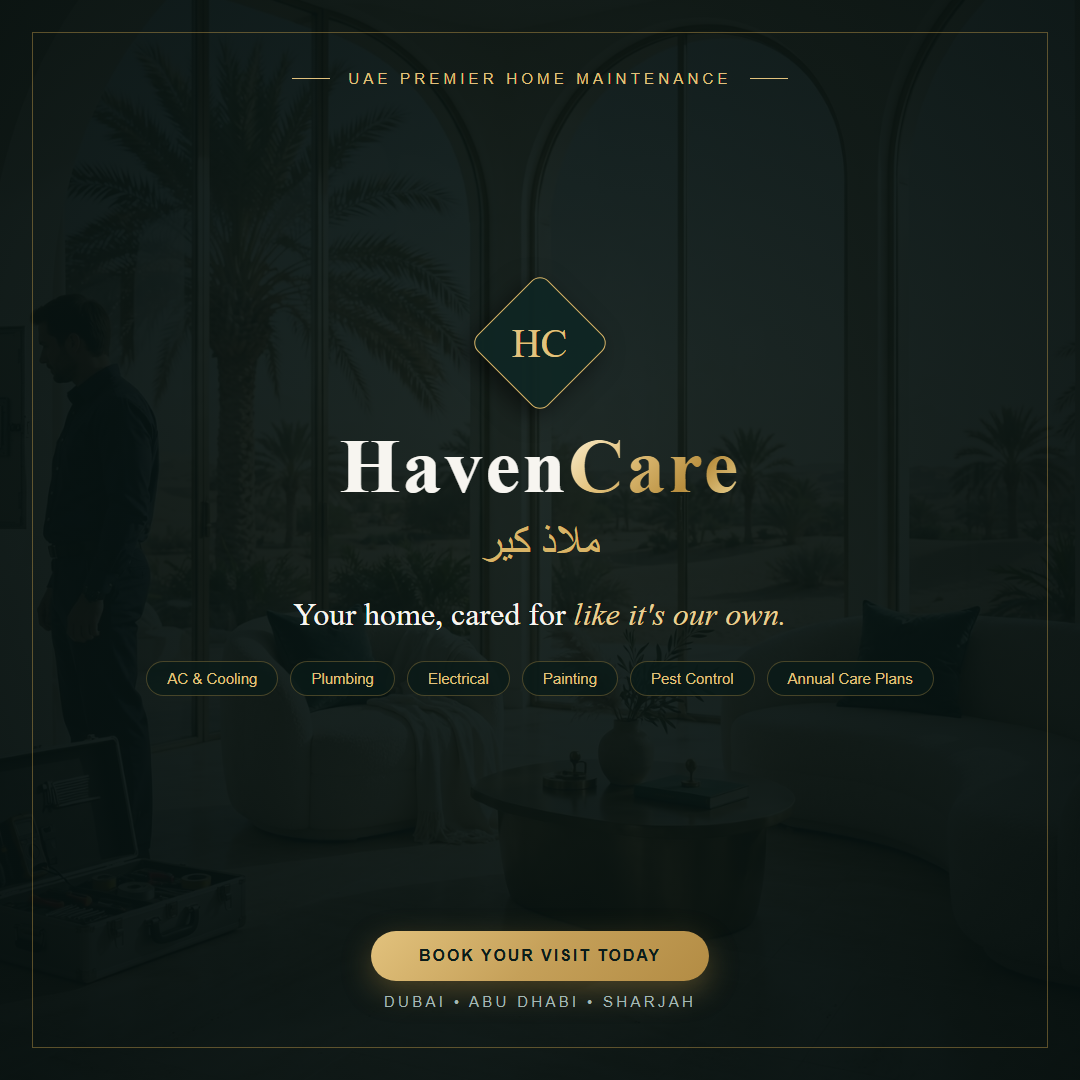
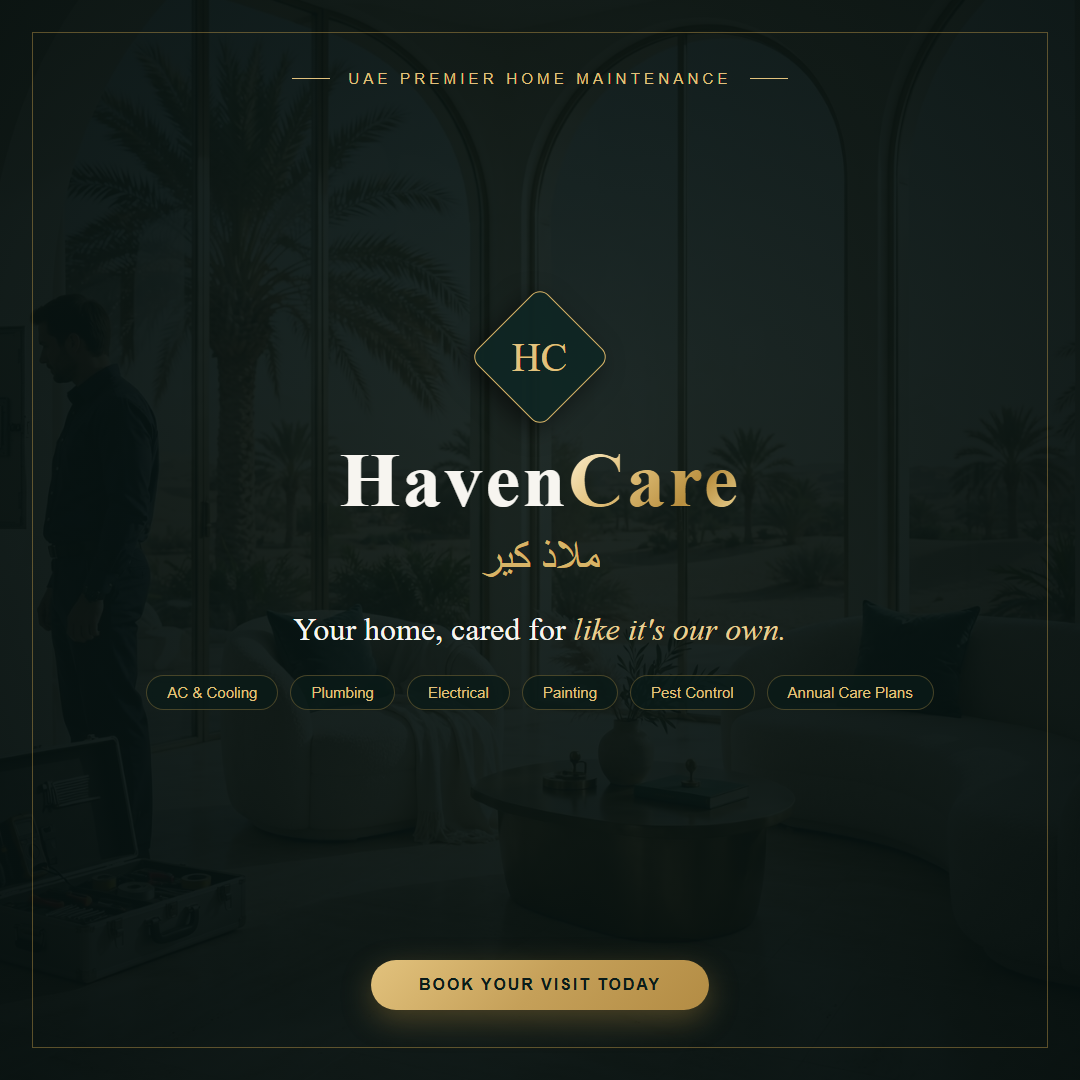
Fix: Remove redundant city and location subtitles from social media graphics

Changed region(s): [[0.1528, 0.275, 0.8556, 0.6722], [0.3361, 0.8556, 0.6722, 0.9472], [0.4889, 0.2444, 0.5194, 0.275]]

diff --git a/scripts/generate-social-images.js b/scripts/generate-social-images.js
@@ -195,7 +195,6 @@ const templates = [
       <div class="divider-line"></div>
     </div>
     <div class="tagline">Premium Home Maintenance</div>
-    <div class="location-pill">Dubai • Abu Dhabi • UAE</div>
   </div>
 </body>
 </html>`
@@ -323,7 +322,6 @@ const templates = [
     </div>
     <div class="brand-wordmark">Haven<em>Care</em></div>
     <div class="arabic-wordmark">ملاذ كير</div>
-    <div class="subtitle">DUBAI • UAE</div>
   </div>
 </body>
 </html>`
@@ -836,7 +834,6 @@ const templates = [
 
     <div class="bottom-cta">
       <div class="cta-btn">Book Your Visit Today</div>
-      <div class="web-link">Dubai • Abu Dhabi • Sharjah</div>
     </div>
   </div>
 </body>
